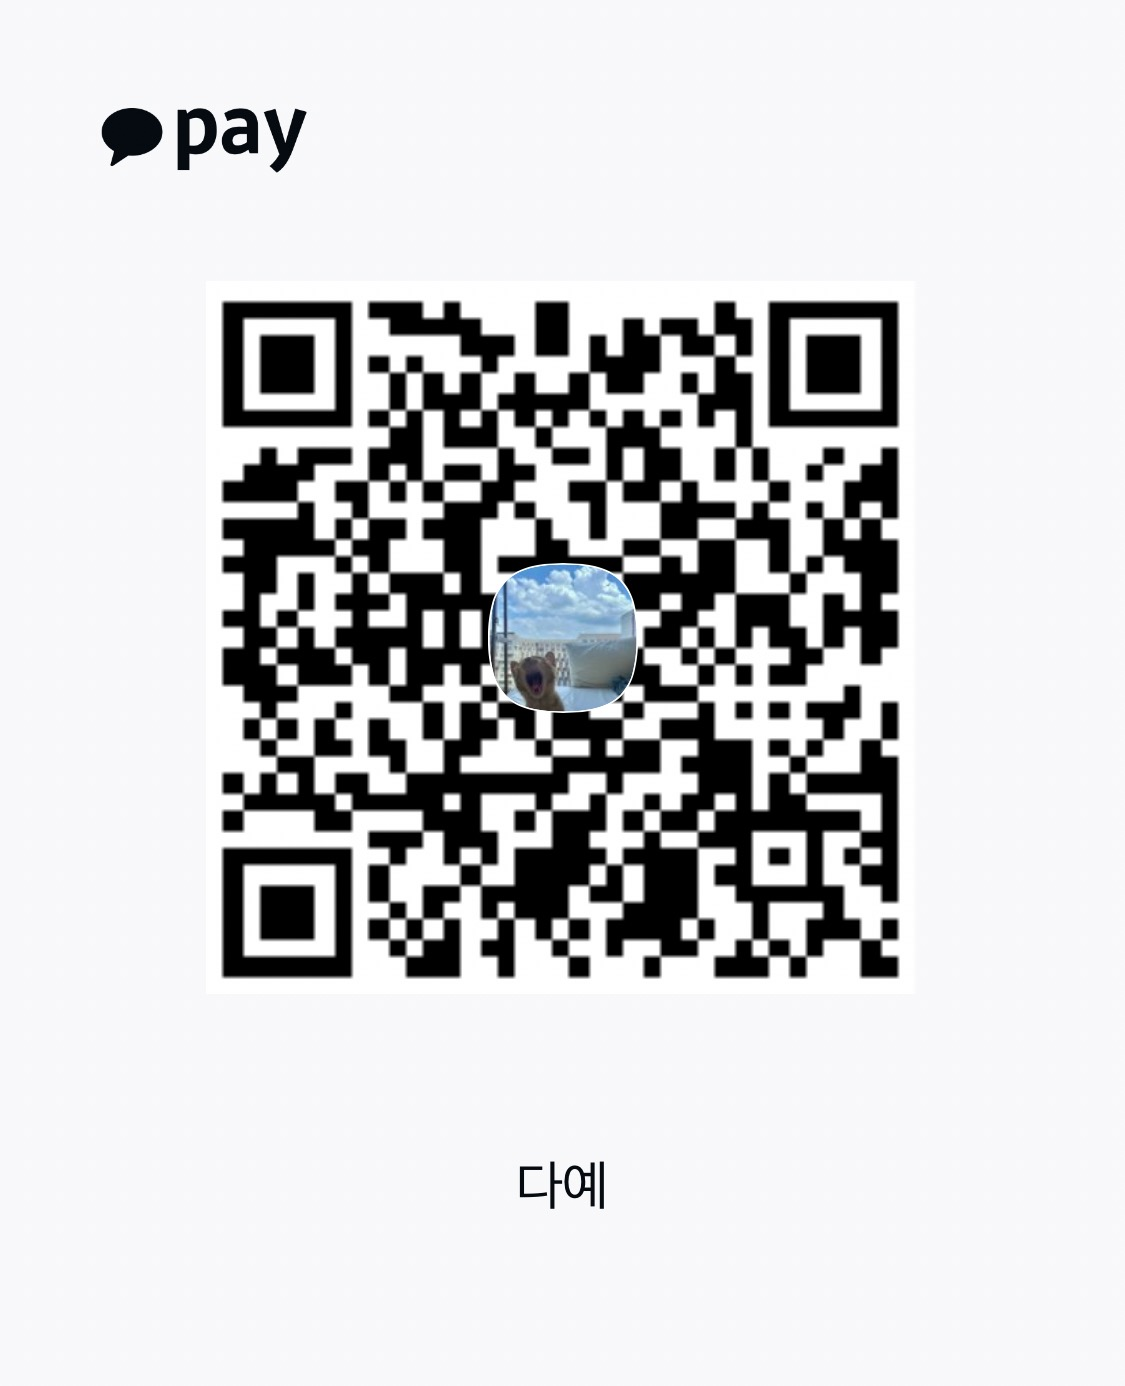
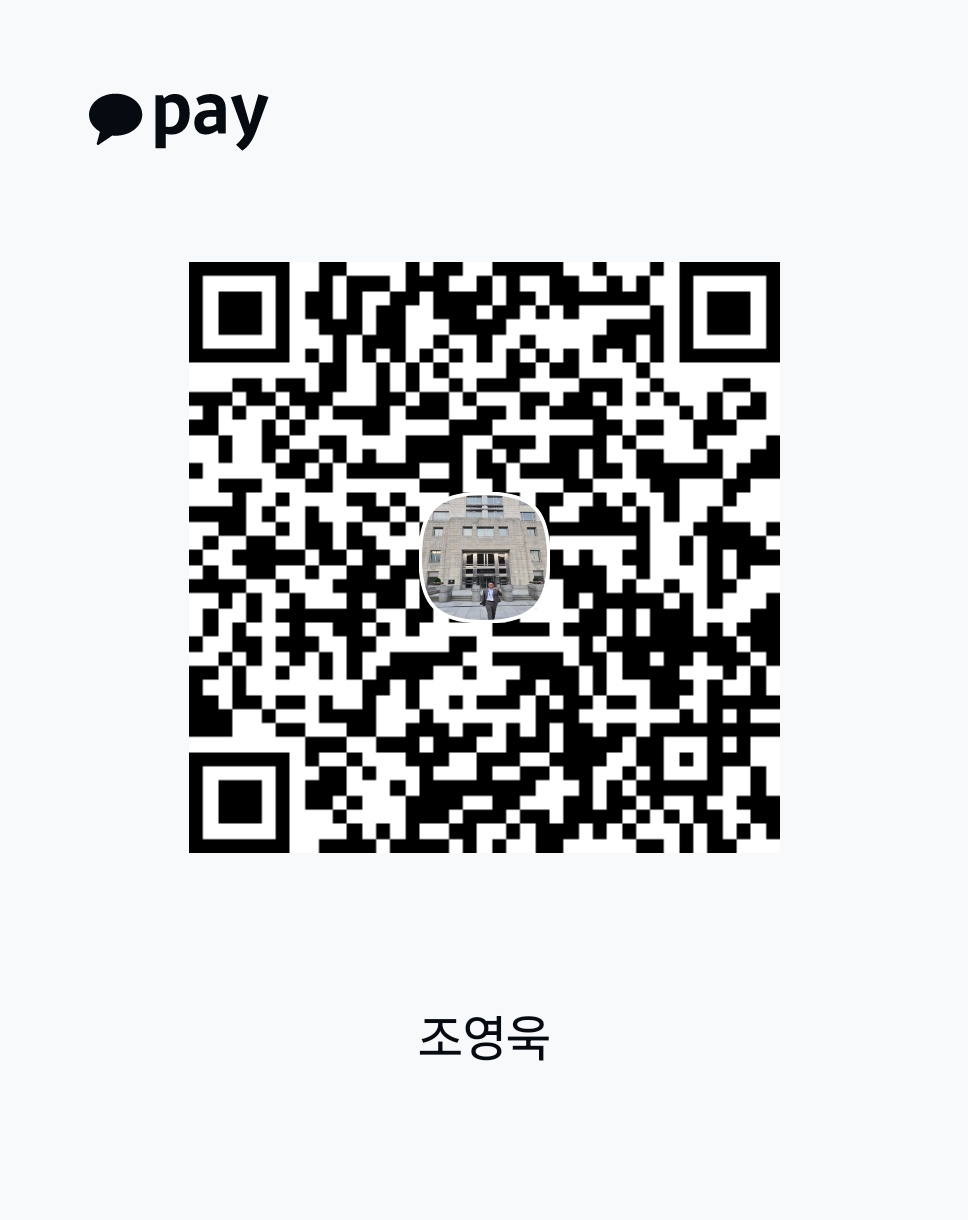
edit: account transfer link update

Changed region(s): [[0.186, 0.1869, 0.8058, 0.7164], [0.4339, 0.8098, 0.5888, 0.8721], [0.155, 0.0623, 0.2789, 0.1246]]

diff --git a/src/components/sections/AccountTransferSection.jsx b/src/components/sections/AccountTransferSection.jsx
@@ -48,7 +48,7 @@ const AccountTransferSection = ({ alertMessage, onShowQrCode }) => {
   const animatedElements = [
     {
       type: "img",
-      className: "w-3 h-3 mt-16 mb-2",
+      className: "w-3 h-3 mt-22 mb-2",
       src: HeartSvg,
       alt: "Heart Icon",
     },
@@ -66,7 +66,7 @@ const AccountTransferSection = ({ alertMessage, onShowQrCode }) => {
     {
       type: "span",
       text: "너른 마음으로 양해 부탁드립니다.",
-      className: "block",
+      className: "block mb-14",
     },
   ];
 
@@ -132,7 +132,7 @@ const AccountTransferSection = ({ alertMessage, onShowQrCode }) => {
               bank: "농협은행",
               number: "302 1407947491",
               owner: "염승열",
-              link: "https://qr.kakaopay.com/Ej9LyiG7a",
+              link: "https://qr.kakaopay.com/FFyW9Mi4u",
               qrIndex: 1,
             },
             {
@@ -156,7 +156,7 @@ const AccountTransferSection = ({ alertMessage, onShowQrCode }) => {
               bank: "우리은행",
               number: "54903186202101",
               owner: "조영욱",
-              link: "https://qr.kakaopay.com/Ej9LyiG7a",
+              link: "https://qr.kakaopay.com/FCw0LAdwP",
               qrIndex: 3,
             },
             {
